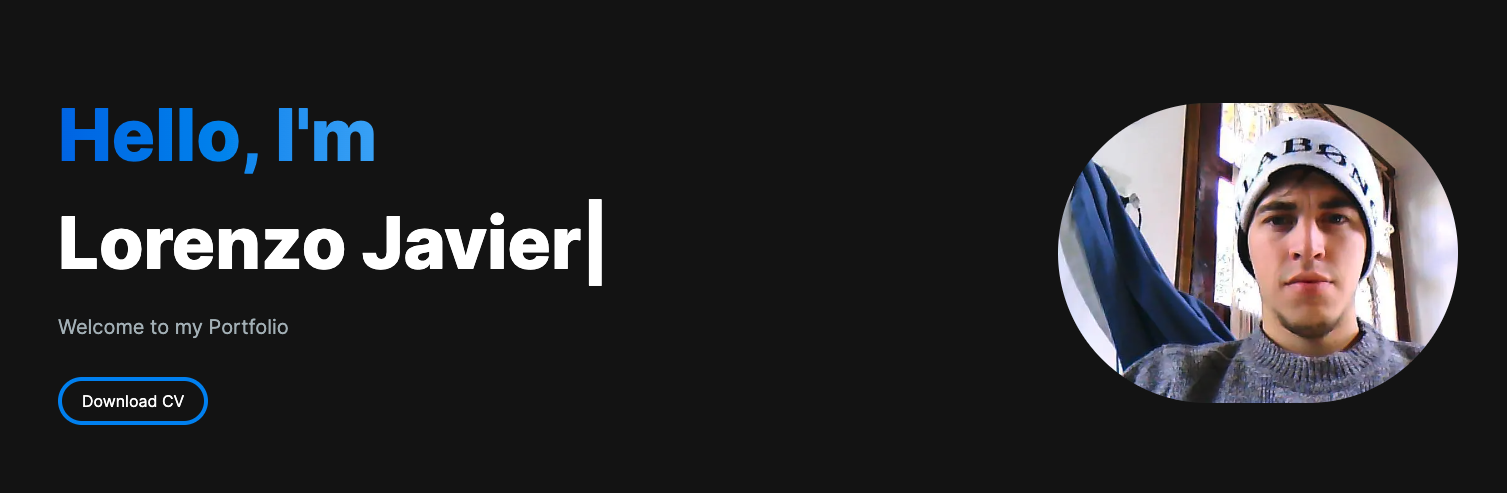
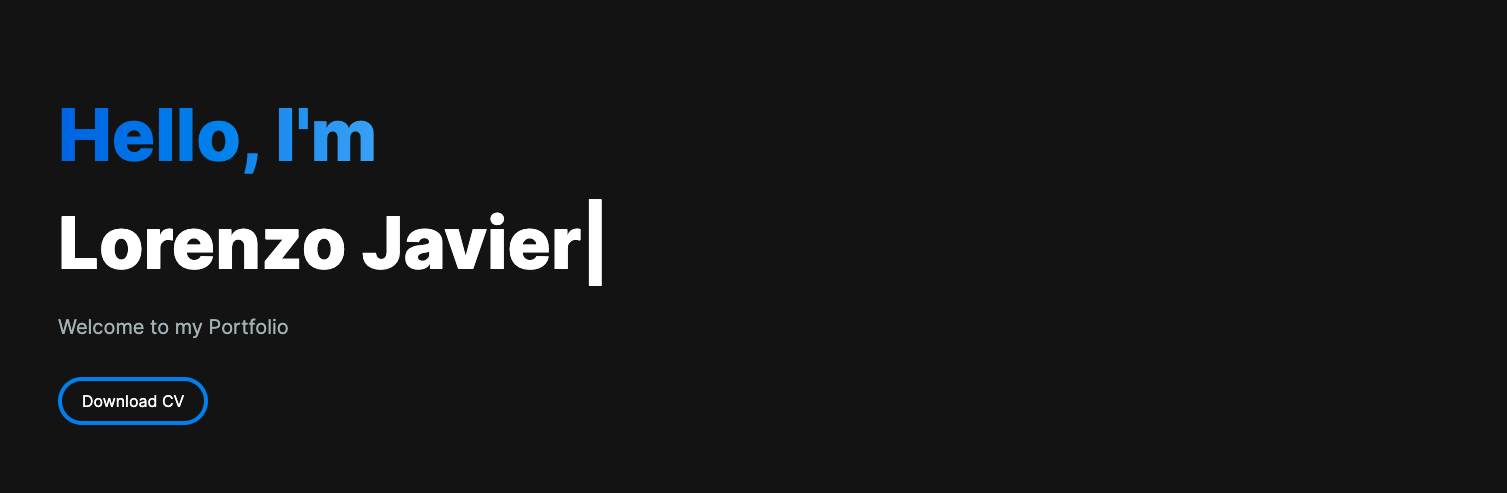
feat(about,email,header,projectSection,projectTag,portfolioUno):I've added and fix the portfolio up and down

Changed region(s): [[0.6861, 0.1826, 0.9668, 0.8215]]

diff --git a/portfolio-website/app/components/EmailSection.jsx b/portfolio-website/app/components/EmailSection.jsx
@@ -53,110 +53,120 @@ const EmailSection = () => {
   };
 
   return (
-    <section
-      className="grid md:grid-cols-2 my-12 md:my-12 py-24 gap-4"
-      id="contact"
-    >
-      <div>
-        <h5 className="text-xl font-bold text-white my-2">
-          Let&apos;s Connect
-        </h5>
-        <p className="text-[#ADB7BE] mb-4 max-w-md">
-          I&apos;m currently looking for new opportunities
-        </p>
-        <div className="socials flex flex-row gap-4">
-          <Link href="https://github.com/Javierdigital85">
-            <Image
-              src={Github}
-              className="h-10 w-10 bg-white rounded-full"
-              alt="Github Icon"
-            />
-          </Link>
-          <Link href="https://www.linkedin.com/in/lorenzojaviercolodro/">
-            <Image
-              src={LinkedIn}
-              className="h-10 w-10 bg-white rounded"
-              alt="LinkedIn Icon"
-            />
-          </Link>
+    <>
+      <h1
+        className="text-white mt-20 text-4xl text-center font-bold"
+        id="contact"
+      >
+        Contact
+      </h1>
+      <section className="grid md:grid-cols-2 my-12 md:my-12 py-2 gap-4">
+        {/* <h1 className="text-white">Hola</h1> */}
+        <div>
+          <h5 className="text-xl font-bold text-white my-2 mt-20">
+            Let&apos;s Connect
+          </h5>
+          <p className="text-[#ADB7BE] mb-4 max-w-md">
+            I&apos;m currently looking for new opportunities, and my inbox is
+            always open. Whether you have any questions or just to say hi.
+          </p>
+          <div className="socials flex flex-row gap-4">
+            <Link href="https://github.com/Javierdigital85" target="_blank">
+              <Image
+                src={Github}
+                className="h-10 w-10 bg-white rounded-full hover:h-11 hover:w-11 hover:bg-sky-400"
+                alt="Github Icon"
+              />
+            </Link>
+            <Link
+              href="https://www.linkedin.com/in/lorenzojaviercolodro/"
+              target="_blank"
+            >
+              <Image
+                src={LinkedIn}
+                className="h-10 w-10 bg-white rounded hover:h-11 hover:w-11 hover:bg-sky-400"
+                alt="LinkedIn Icon"
+              />
+            </Link>
+          </div>
         </div>
-      </div>
-      <div>
-        <form className="flex flex-col" onSubmit={handleSubmit}>
-          <div className="mb-6">
-            <label
-              htmlFor="email"
-              className="text-white block mb-2 text-sm font-medium"
+        <div>
+          <form className="flex flex-col mt-20" onSubmit={handleSubmit}>
+            <div className="mb-6">
+              <label
+                htmlFor="email"
+                className="text-white block mb-2 text-sm font-medium"
+              >
+                Your Email
+              </label>
+              <input
+                name="email"
+                type="email"
+                id="email"
+                value={data.email}
+                onChange={handleInputChange}
+                required
+                className="bg-[#18191E] border border-[#33353F] placeholder-[#9CA2A9] text-gray-100 text-sm rounded-lg block w-full p-2.5"
+                placeholder="name@gmail.com"
+              />
+            </div>
+            <div className="mb-6">
+              <label
+                htmlFor="subject"
+                type="email"
+                className="text-white block text-sm mb-2 font-medium"
+              >
+                Subject
+              </label>
+              <input
+                name="subject"
+                type="text"
+                id="subject"
+                value={data.subject}
+                onChange={handleInputChange}
+                required
+                className="bg-[#18191E] border border-[#33353F] placeholder-[#9CA2A9] text-gray-100 text-sm rounded-lg block w-full p-2.5"
+                placeholder="Say hello to Lorenzo Javier!"
+              />
+            </div>
+            <div className="mb-6">
+              <label
+                htmlFor="message"
+                className="text-white block text-sm mb-2 font-medium"
+              >
+                Message
+              </label>
+              <textarea
+                name="message"
+                id="message"
+                value={data.message}
+                onChange={handleInputChange}
+                className="bg-[#18191E] border border-[#33353F] placeholder-[#9CA2A9] text-gray-100 text-sm rounded-lg block w-full p-2.5"
+                placeholder="Let's talk about..."
+              />
+            </div>
+            <button
+              type="submit"
+              className="bg-blue-600 hover:bg-blue-700 text-white font-medium py-2.5 px-5 rounded-lg w-full"
             >
-              Your Email
-            </label>
-            <input
-              name="email"
-              type="email"
-              id="email"
-              value={data.email}
-              onChange={handleInputChange}
-              required
-              className="bg-[#18191E] border border-[#33353F] placeholder-[#9CA2A9] text-gray-100 text-sm rounded-lg block w-full p-2.5"
-              placeholder="name@gmail.com"
-            />
-          </div>
-          <div className="mb-6">
-            <label
-              htmlFor="subject"
-              type="email"
-              className="text-white block text-sm mb-2 font-medium"
-            >
-              Subject
-            </label>
-            <input
-              name="subject"
-              type="text"
-              id="subject"
-              value={data.subject}
-              onChange={handleInputChange}
-              required
-              className="bg-[#18191E] border border-[#33353F] placeholder-[#9CA2A9] text-gray-100 text-sm rounded-lg block w-full p-2.5"
-              placeholder="Say hello!"
-            />
-          </div>
-          <div className="mb-6">
-            <label
-              htmlFor="message"
-              className="text-white block text-sm mb-2 font-medium"
-            >
-              Message
-            </label>
-            <textarea
-              name="message"
-              id="message"
-              value={data.message}
-              onChange={handleInputChange}
-              className="bg-[#18191E] border border-[#33353F] placeholder-[#9CA2A9] text-gray-100 text-sm rounded-lg block w-full p-2.5"
-              placeholder="Let's talk about..."
-            />
-          </div>
-          <button
-            type="submit"
-            className="bg-purple-500 hover:bg-purple-600 text-white font-medium py-2.5 px-5 rounded-lg w-full"
-          >
-            Send Message
-          </button>
-          {emailSubmitted ? (
-            <p className="text-green-500 text-sm mt-2">
-              Email sent successfully
-            </p>
-          ) : (
-            <p className="text-gray-500 text-sm mt-2">
-              Complete los campos, por favor.
-            </p>
-          )}
-          {emailError && (
-            <p className="text-red-500 text-sm mt-2">Datos incorrectos</p>
-          )}
-        </form>
-      </div>
-    </section>
+              Send Message
+            </button>
+            {emailSubmitted ? (
+              <p className="text-green-500 text-sm mt-2">
+                Email sent successfully
+              </p>
+            ) : (
+              <p className="text-gray-500 text-sm mt-2">
+                Please, fill out the fields.
+              </p>
+            )}
+            {emailError && (
+              <p className="text-red-500 text-sm mt-2">Datos incorrectos</p>
+            )}
+          </form>
+        </div>
+      </section>
+    </>
   );
 };
 

diff --git a/portfolio-website/app/components/AboutSection.jsx b/portfolio-website/app/components/AboutSection.jsx
@@ -10,16 +10,20 @@ const TAB_DATA = [
     id: "skills",
     content: (
       <ul className="list-disc pl-2">
+        <li>JavaScript</li>
+        <li>React</li>
+        <li>Redux</li>
         <li>Node.js</li>
         <li>Express</li>
         <li>PostgreSQL</li>
         <li>Sequelize</li>
-        <li>JavaScript</li>
-        <li>React</li>
         <li>Nest</li>
         <li>MongoDB</li>
         <li>Tailwind</li>
+        <li>Bootstrap</li>
         <li>TypeScript</li>
+        <li>Postman</li>
+        <li>Docker</li>
       </ul>
     ),
   },
@@ -28,8 +32,8 @@ const TAB_DATA = [
     id: "education",
     content: (
       <ul className="list-disc pl-2">
-        <li>Plataforma 5, Coding Bootcamp</li>
-        <li>Cabin Crew Certification in Qatar Airways</li>
+        <li>Plataforma 5 Coding Bootcamp.</li>
+        <li>Cabin Crew Certification in Qatar Airways.</li>
       </ul>
     ),
   },
@@ -38,8 +42,9 @@ const TAB_DATA = [
     id: "certification",
     content: (
       <ul className="list-disc pl-2">
-        <li>5 years within Aviation industry.</li>
-        <li>2 years programming.</li>
+        <li>JavaScript Bootcamp.</li>
+        <li>Programación Web FullStack</li>
+        <li>Service Excellence Program & SEP Qatar Airways</li>
       </ul>
     ),
   },
@@ -56,24 +61,25 @@ const AboutSection = () => {
   };
 
   return (
-    <section className="text-white" id="about">
+    <section className="text-white lg:h-[700px]" id="about">
       <div className="md:grid md:grid-cols-2 gap-8 items-center py-8 px-4 xl:gap-16 sm:py-16 xl:px-16">
         <Image
           src="/images/nuevaimagen.avif"
           width={900}
           height={900}
           alt="Lorenzo Javier Colodro's portrait"
-          className="rounded"
+          className="rounded h-[850px] w-[650px] object-contain"
         />
         <div className="mt-4 md:mt-0 text-left flex flex-col h-full">
-          <h2 className="text-4xl font-bold mb-4">About Me </h2>
+          <h2 className="text-4xl font-bold mb-4 mt-10">About Me </h2>
           <p className="text-base lg:text-lg">
-            I&apos;m Lorenzo Javier Colodro and I&apos;m excited to apply the
-            skills I acquired through an intensive JavaScript Bootcamp. My
-            challenge is to provide valuable contributions to any project I am
-            involved in and meet the needs of the company.
+            I&apos;m a full stack developer eager to apply the skills I acquired
+            through an intensive JavaScript Bootcamp. I have experience working
+            on the frontend and backend. My challenge is to provide valuable
+            contributions to any project I am involved in and meet the needs of
+            the company. I&apos;m a team player and always ready to achieve new
+            goals.
           </p>
-
           <div className="flex flex-row justify-start mt-8">
             <TabButton
               selectTab={() => handleTabChange("skills")}
@@ -93,7 +99,7 @@ const AboutSection = () => {
               selectTab={() => handleTabChange("certification")}
               active={tab === "certification"}
             >
-              Experience
+              Certification
             </TabButton>
           </div>
           <div className="mt-8">

diff --git a/portfolio-website/app/components/ProjectsSection.jsx b/portfolio-website/app/components/ProjectsSection.jsx
@@ -43,7 +43,7 @@ const projectsData = [
     id: 4,
     title: "Portfolio",
     description:
-      "This portfolio serves as a snapshot of my journey as a developer, showcasing a diverse range of projects that I've undertaken. Each project is a testament to my adaptability and dedication to mastering new technologies. Whether it's creating responsive web designs, developing interactive mobile apps, or implementing frontend and backend solutions.",
+      "This portfolio serves as a snapshot of my journey as a developer, showcasing a diverse range of projects that I've undertaken. Each project is a testament to my adaptability and dedication to learn and mastering new technologies. Whether it's creating responsive web designs, developing interactive mobile apps, or implementing frontend and backend solutions.",
     image: "/images/projects/portfolioUno.png",
     tag: ["All", "Web"],
     gitUrl: "https://github.com/Javierdigital85/portfolioNextjs",
@@ -71,8 +71,11 @@ const ProjectsSection = () => {
   };
 
   return (
-    <section id="projects">
-      <h2 className="text-center text-4xl font-bold text-white mt-4 mb-8 md:mb-12">
+    <section className="mt-36">
+      <h2
+        id="projects"
+        className="text-center text-4xl font-bold text-white mt-20 mb-8 md:mb-12"
+      >
         My Projects
       </h2>
       <div className="text-white flex flex-row justify-center items-center gap-2 py-6">

diff --git a/portfolio-website/app/components/Header.jsx b/portfolio-website/app/components/Header.jsx
@@ -6,7 +6,7 @@ import TypeWriter from "./TypeWriter";
 const Header = () => {
   return (
     <section className="lg:py-16">
-      <div className="grid grid-cols-1 sm:grid-cols-12">
+      <div className="grid grid-cols-1 sm:grid-cols-12 lg:h-[650px]">
         <div className="col-span-8 place-self-center text-center sm:text-left justify-self-start">
           <h1 className="text-white mb-4 text-4xl sm:text-5xl lg:text-7xl lg:leading-normal font-extrabold">
             <span className="text-transparent bg-clip-text bg-gradient-to-r from-blue-600 to-blue-400">
@@ -31,13 +31,13 @@ const Header = () => {
 
         {/* IMAGEN */}
         <div className="col-span-4 place-self-center mt-4 lg:mt-0">
-          <div className="w-[250px] h-[250px] lg:w-[400px] lg:h-[400px] relative overflow-hidden rounded">
+          <div className="w-[250px] h-[250px] lg:w-[400px] lg:h-[600px] relative overflow-hidden">
             <div className="absolute inset-0 flex items-center justify-center">
               <Image
                 src={Picture}
                 alt="personal image"
                 layout="fill"
-                objectFit="cover"
+                objectFit="contain"
               />
             </div>
           </div>

diff --git a/portfolio-website/app/components/ProjectTag.jsx b/portfolio-website/app/components/ProjectTag.jsx
@@ -2,8 +2,8 @@ import React from "react";
 
 const ProjectTag = ({ name, onClick, isSelected }) => {
   const buttonStyles = isSelected
-    ? "text-white border-purple-500"
-    : "text-[#ADB7BE]border-slate-600 hover:border-white ";
+    ? "text-white border-blue-600"
+    : "text-[#ADB7BE] border-slate-600 hover:border-white ";
   return (
     <button
       className={`${buttonStyles} rounded-full border-2 px-6 py-3 text-xl cursor-pointer"`}
